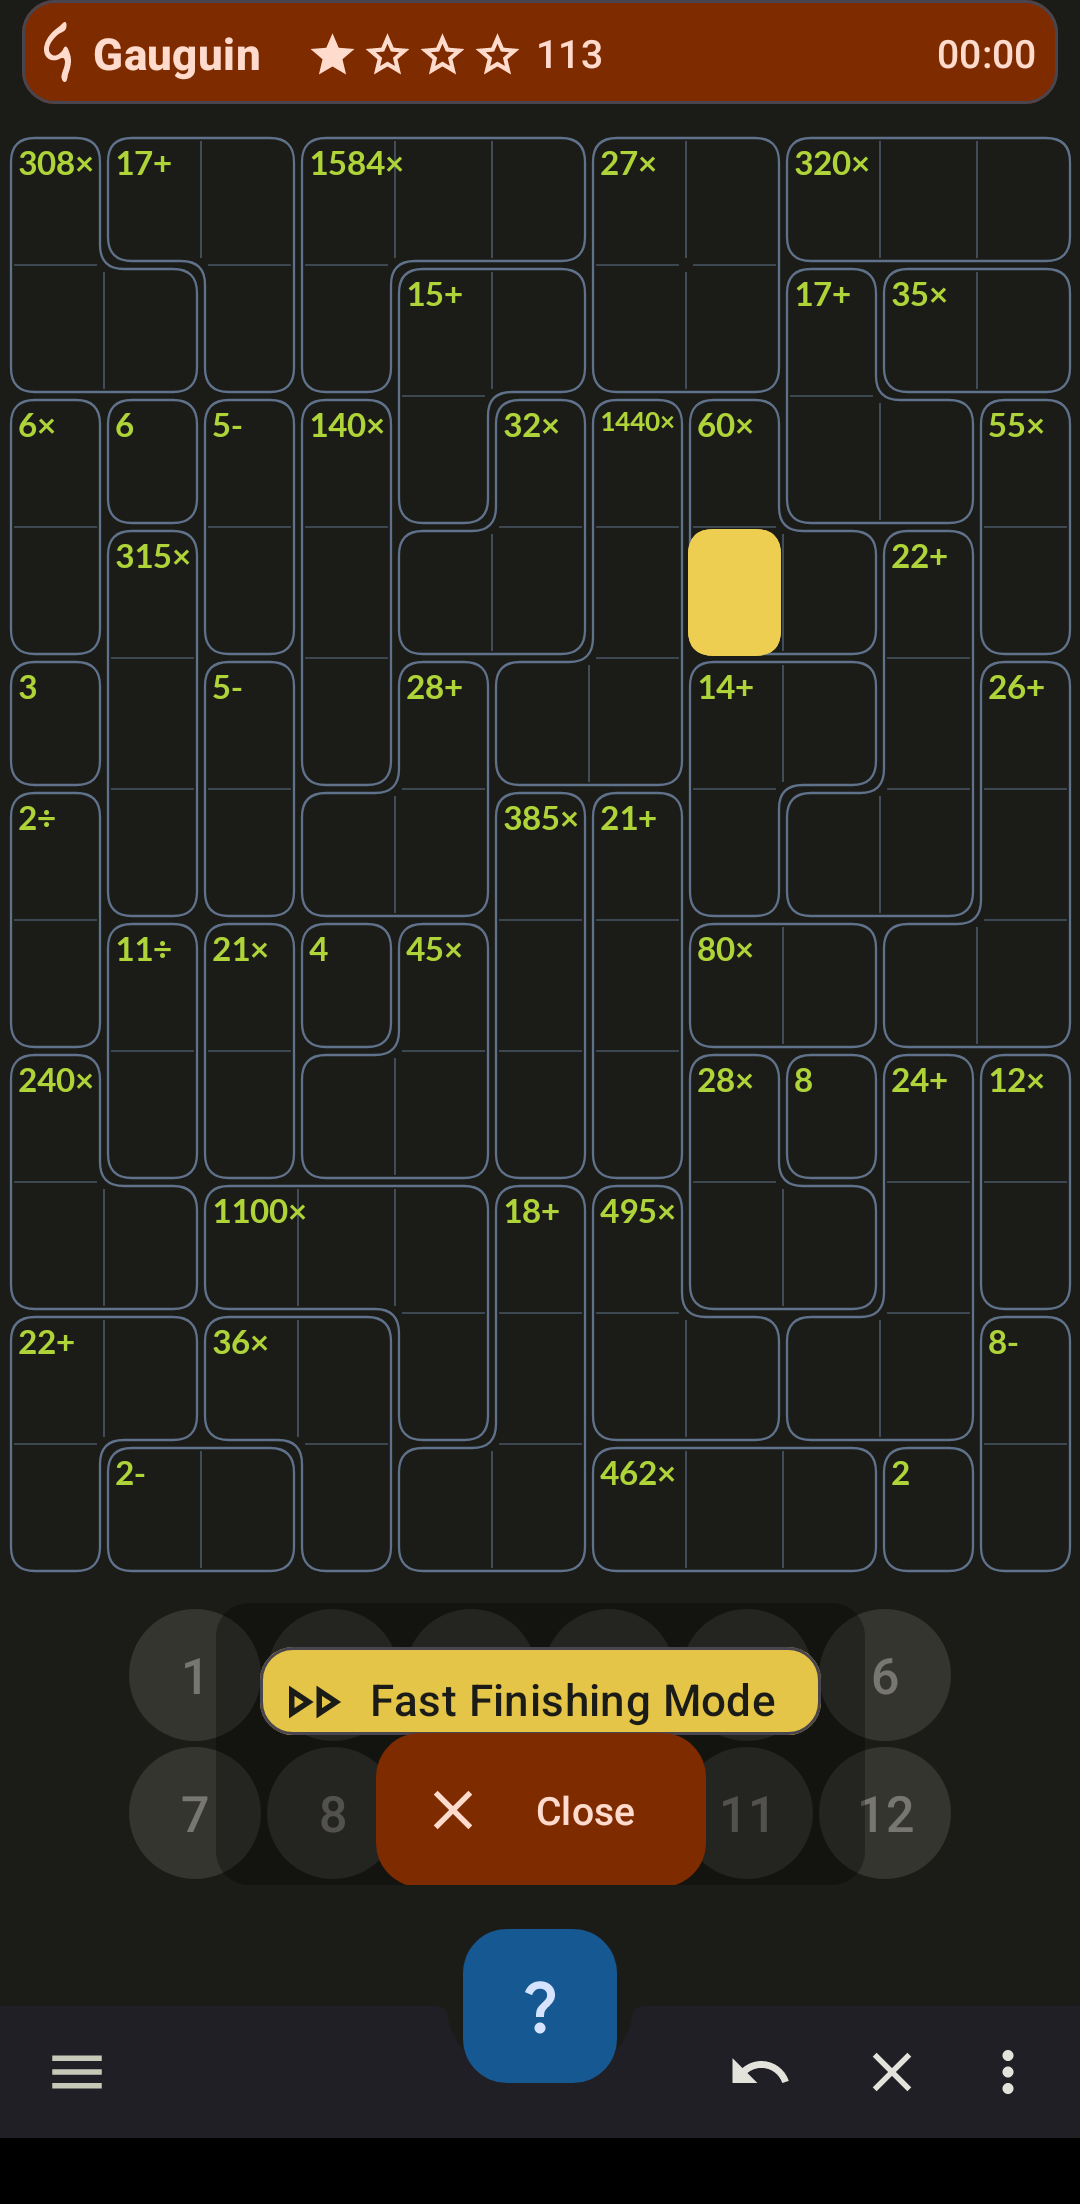
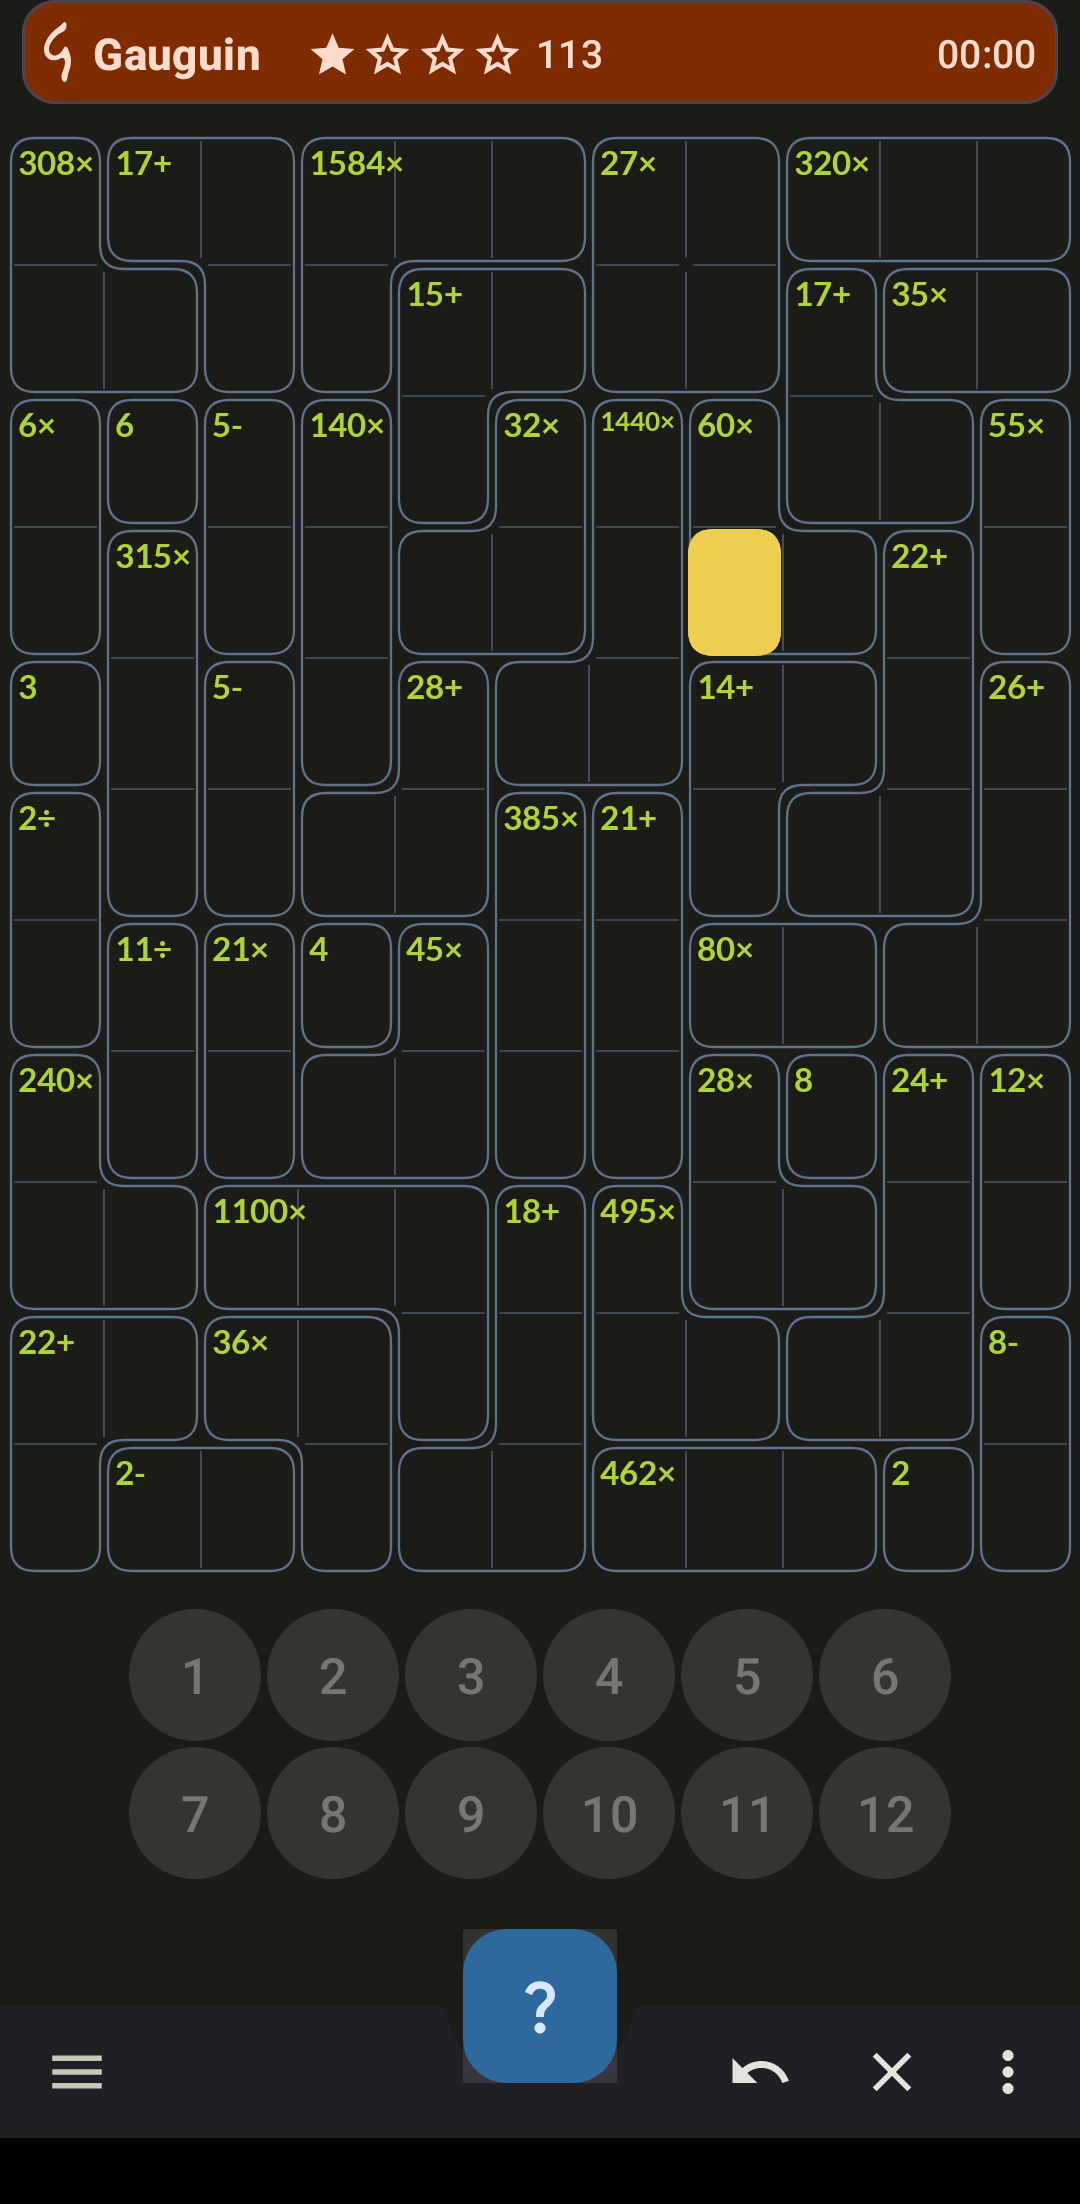
wip

Changed region(s): [[0.2444, 0.7405, 0.7639, 0.8639]]

diff --git a/gauguin-app/src/androidTest/kotlin/org/piepmeyer/gauguin/ui/main/MainActivityScreenshotTest.kt b/gauguin-app/src/androidTest/kotlin/org/piepmeyer/gauguin/ui/main/MainActivityScreenshotTest.kt
@@ -64,6 +64,29 @@ class MainActivityScreenshotTest : KoinComponent {
 
     @ScreenshotInstrumentation
     @Test
+    fun gameWith3x3GridFastFinishingMode() {
+        rule.setViewModifications {
+            preferences.clear()
+            game.updateGrid(
+                createGrid(
+                    GameVariant(
+                        GridSize(3, 3),
+                        GameOptionsVariant.createClassic(),
+                    ),
+                ),
+            )
+
+            game.selectCell(game.grid.getCell(0))
+            game.grid.getCell(5).possibles = game.grid.variant.possibleDigits
+            game.enterFastFinishingMode()
+            game.gridUI.invalidate()
+        }
+
+        rule.assertSame()
+    }
+
+    @ScreenshotInstrumentation
+    @Test
     fun gameWith6x6GridFromZeroOnPossibleIn3x3() {
         rule.setViewModifications {
             preferences.clear()
@@ -79,6 +102,29 @@ class MainActivityScreenshotTest : KoinComponent {
 
             game.selectCell(game.grid.getCell(0))
             game.grid.getCell(25).possibles = game.grid.variant.possibleDigits
+            game.gridUI.invalidate()
+        }
+
+        rule.assertSame()
+    }
+
+    @ScreenshotInstrumentation
+    @Test
+    fun gameWith6x6GridFastFinishingMode() {
+        rule.setViewModifications {
+            preferences.clear()
+            game.updateGrid(
+                createGrid(
+                    GameVariant(
+                        GridSize(6, 6),
+                        GameOptionsVariant.createClassic(),
+                    ),
+                ),
+            )
+
+            game.selectCell(game.grid.getCell(0))
+            game.grid.getCell(25).possibles = game.grid.variant.possibleDigits
+            game.enterFastFinishingMode()
             game.gridUI.invalidate()
         }
 
@@ -133,8 +179,6 @@ class MainActivityScreenshotTest : KoinComponent {
 
             game.selectCell(game.grid.getCell(40))
             game.enterFastFinishingMode()
-
-            game.gridUI.invalidate()
         }
 
         rule.assertSame()
